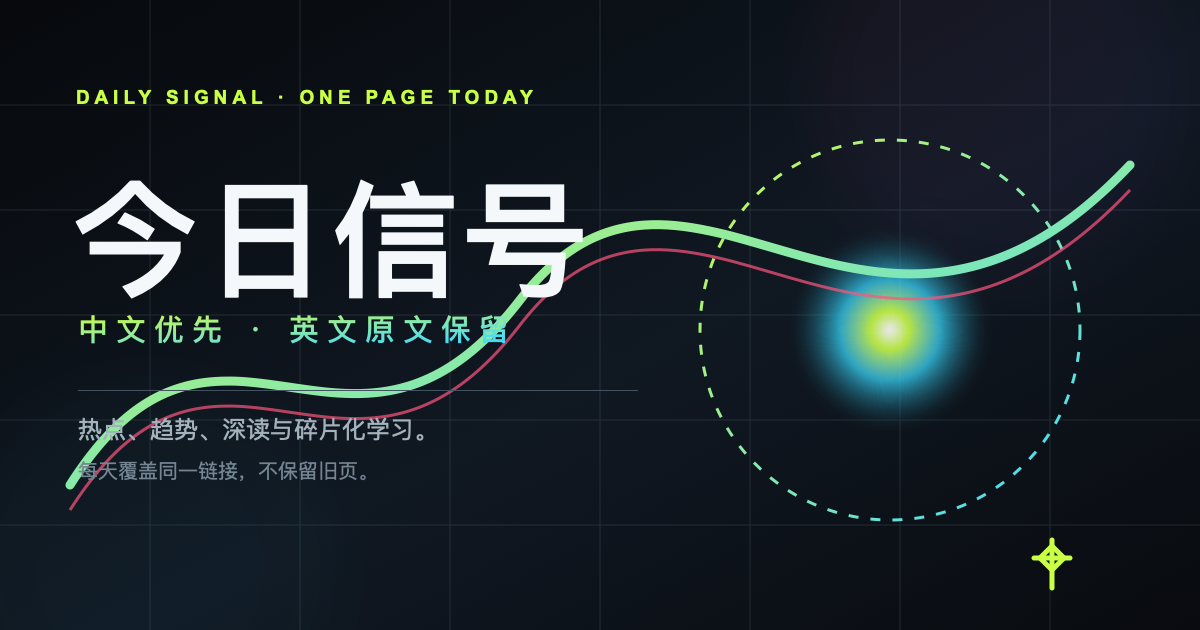
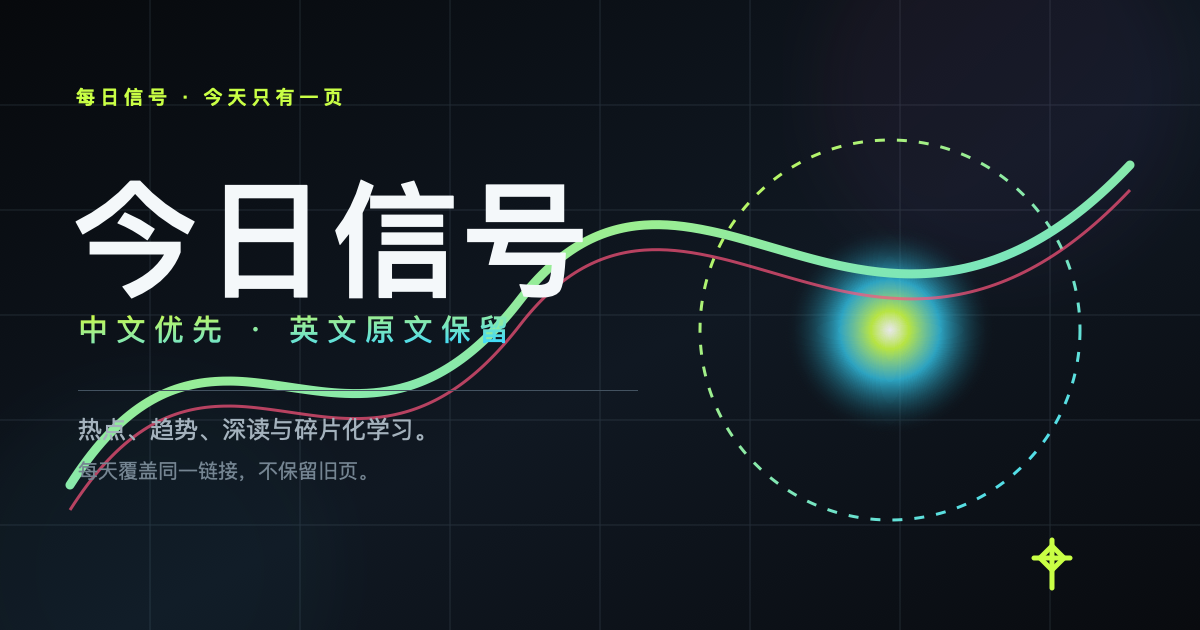
Update today page

Changed region(s): [[0.0617, 0.1206, 0.4317, 0.181]]

diff --git a/index.html b/index.html
@@ -3,13 +3,13 @@
 <head>
 <meta charset="utf-8">
 <meta name="viewport" content="width=device-width, initial-scale=1">
-<title>每日互联网简报 | Daily Signal</title>
+<title>每日互联网简报｜每日信号</title>
 <meta name="description" content="每天一页：AI、创业、全球、经济、职业技能、人文成长，以及抖音、微博、B站、小红书和 X 的热点与传播趋势。">
 <meta name="theme-color" content="#080a0d">
 <link rel="canonical" href="https://wenrouwenrouliu-cloud.github.io/one-page-daily/">
 <link rel="icon" href="favicon.svg" type="image/svg+xml">
 <meta property="og:type" content="website">
-<meta property="og:title" content="每日互联网简报 | Daily Signal">
+<meta property="og:title" content="每日互联网简报｜每日信号">
 <meta property="og:description" content="今天只读这一页：每天更新的互联网热点、深度阅读和碎片化学习。">
 <meta property="og:url" content="https://wenrouwenrouliu-cloud.github.io/one-page-daily/">
 <meta property="og:image" content="https://wenrouwenrouliu-cloud.github.io/one-page-daily/og-cover.png">
@@ -30,12 +30,12 @@ h1{margin:18px 0 20px;font-size:clamp(68px,13vw,164px);line-height:.78;letter-sp
 main{padding:46px 0 90px}.section{margin:0 0 75px}.head{display:flex;justify-content:space-between;gap:30px;align-items:end;border-bottom:1px solid var(--line);padding-bottom:15px;margin-bottom:26px}.head h2{margin:0;font-size:clamp(38px,6vw,70px);line-height:1;letter-spacing:-.055em}.head .code{color:var(--cyan);font:800 10px/1.5 ui-monospace,monospace;letter-spacing:.14em;text-align:right}
 .timeline{position:relative;padding-left:42px}.timeline:before{content:"";position:absolute;left:9px;top:0;bottom:0;width:1px;background:linear-gradient(var(--cyan),var(--acid),var(--pink))}.entry{position:relative;display:grid;grid-template-columns:110px 1fr 190px;gap:24px;padding:24px 0;border-bottom:1px solid var(--line)}.entry:before{content:"";position:absolute;left:-38px;top:34px;width:11px;height:11px;border-radius:50%;background:var(--acid);box-shadow:0 0 18px var(--acid)}.idx{font:900 38px/1 ui-monospace,monospace;color:#31404c}.tag{color:var(--cyan);font:800 10px/1.4 ui-monospace,monospace;letter-spacing:.13em;text-transform:uppercase}.entry h3{font-size:clamp(27px,3.4vw,45px);line-height:1.1;margin:8px 0 10px;letter-spacing:-.045em}.entry p{color:#91a0ab;font-size:14px}.entry .meta{text-align:right;color:var(--muted);font:700 10px/1.8 ui-monospace,monospace;text-transform:uppercase}.entry .meta b{display:block;color:var(--acid);margin-top:8px}
 .deep{display:grid;grid-template-columns:1fr 1fr;gap:16px}.deep article{position:relative;min-height:390px;padding:28px;border:1px solid var(--line);background:linear-gradient(145deg,rgba(21,27,34,.9),rgba(10,13,17,.95));overflow:hidden}.deep article:before{content:"";position:absolute;right:-90px;top:-100px;width:250px;height:250px;border-radius:50%;background:var(--cyan);opacity:.12;filter:blur(4px)}.deep article:nth-child(2):before{background:var(--pink)}.deep h3{font-size:clamp(28px,3.6vw,43px);line-height:1.1;margin:28px 0 14px;letter-spacing:-.045em}.deep p{color:#94a1aa;font-size:14px}.deep .bottom{margin-top:42px;padding-top:15px;border-top:1px solid var(--line);color:var(--acid);font:800 12px/1.5 ui-monospace,monospace}
-.partner{margin:0 0 75px;border:1px solid rgba(201,255,69,.35);background:linear-gradient(135deg,rgba(201,255,69,.12),rgba(56,217,255,.06) 48%,rgba(255,84,124,.09));padding:42px;display:grid;grid-template-columns:1fr 300px;gap:34px;position:relative;overflow:hidden}.partner:after{content:"SIGNAL";position:absolute;right:-10px;bottom:-56px;font:900 140px/1 ui-monospace,monospace;color:rgba(255,255,255,.035)}.partner h3{font-size:clamp(34px,5vw,58px);line-height:1;letter-spacing:-.055em;margin:14px 0}.partner p{color:#9eabb5;font-size:14px;max-width:760px}.partner .terms{border-left:1px solid var(--line);padding-left:22px;color:var(--acid);font:800 10px/1.9 ui-monospace,monospace;text-transform:uppercase}
+.partner{margin:0 0 75px;border:1px solid rgba(201,255,69,.35);background:linear-gradient(135deg,rgba(201,255,69,.12),rgba(56,217,255,.06) 48%,rgba(255,84,124,.09));padding:42px;display:grid;grid-template-columns:1fr 300px;gap:34px;position:relative;overflow:hidden}.partner:after{content:"合作";position:absolute;right:-10px;bottom:-56px;font:900 140px/1 ui-monospace,monospace;color:rgba(255,255,255,.035)}.partner h3{font-size:clamp(34px,5vw,58px);line-height:1;letter-spacing:-.055em;margin:14px 0}.partner p{color:#9eabb5;font-size:14px;max-width:760px}.partner .terms{border-left:1px solid var(--line);padding-left:22px;color:var(--acid);font:800 10px/1.9 ui-monospace,monospace;text-transform:uppercase}
 .matrix{border:1px solid var(--line)}.prow{display:grid;grid-template-columns:120px 1fr 1fr;border-bottom:1px solid var(--line)}.prow:last-child{border-bottom:0}.pcell{padding:20px;border-right:1px solid var(--line)}.pcell:last-child{border-right:0}.pcell h3{margin:0;font-size:27px}.pcell small{display:block;color:var(--muted);font:700 9px/1.6 ui-monospace,monospace;margin-top:7px}.pcell h4{margin:0 0 10px;color:var(--pink);font:800 9px/1.5 ui-monospace,monospace;letter-spacing:.14em;text-transform:uppercase}.sigrow{display:grid;grid-template-columns:22px 1fr auto;gap:8px;padding:8px 0;border-top:1px solid rgba(210,230,240,.09);font-size:13px}.sigrow:first-of-type{border-top:0}.sigrow b{color:var(--cyan);font:800 10px/1.6 ui-monospace,monospace}.sigrow em{font-style:normal;color:var(--acid);font:800 9px/1.5 ui-monospace,monospace;white-space:nowrap}
 .latest{display:grid;grid-template-columns:repeat(2,1fr);column-gap:30px}.news{display:grid;grid-template-columns:112px 1fr;gap:14px;padding:14px 0;border-top:1px solid var(--line);font-size:14px}.news b{color:var(--cyan);font:800 9px/1.6 ui-monospace,monospace;text-transform:uppercase}.news small{display:block;color:var(--muted);font:700 9px/1.5 ui-monospace,monospace;margin-top:4px}
 footer{border-top:1px solid var(--line);padding:24px 0 55px;display:flex;justify-content:space-between;color:var(--muted);font:700 10px/1.6 ui-monospace,monospace;text-transform:uppercase}
 @media(max-width:850px){.herogrid,.entry,.deep,.partner,.prow,.latest{grid-template-columns:1fr}.head{align-items:flex-start;flex-direction:column}.head .code{text-align:left}.entry .meta{text-align:left}.pcell{border-right:0;border-bottom:1px solid var(--line)}.partner .terms{border-left:0;border-top:1px solid var(--line);padding:18px 0 0}.news{grid-template-columns:90px 1fr}footer{flex-direction:column}}
-
+</style>
 <style id="signal-young-layer">
   .ico{width:18px;height:18px;display:inline-block;vertical-align:middle;fill:none;stroke:currentColor;stroke-width:1.8;stroke-linecap:round;stroke-linejoin:round}
   .wordmark{display:flex;align-items:center;gap:10px}.wordmark-mark{width:26px;height:26px;display:grid;place-items:center;border:1px solid var(--line);border-radius:9px;background:linear-gradient(135deg,rgba(201,255,69,.16),rgba(56,217,255,.12));box-shadow:0 0 24px rgba(56,217,255,.12)}
@@ -49,10 +49,10 @@ footer{border-top:1px solid var(--line);padding:24px 0 55px;display:flex;justify
 
 </head>
 <body>
-<header class="top"><div class="wrap topin"><div class="wordmark"><span class="wordmark-mark" data-icon="signal"></span><span><span class="live">实时</span> 每日信号 <small>DAILY SIGNAL</small> <span id="issue"></span></span></div><div id="topDate">—</div></div></header>
-<section class="hero"><div class="wrap"><div class="herogrid"><div><div class="kicker">每日信号 / 10:30 更新 / 11:00 推送</div><h1>今日<br><span class="glow">信号</span></h1><p>把今天值得注意的内容压缩成一条清晰信号：热点、趋势、深读与真正可以执行的碎片任务。</p><div class="topic-icons" id="topicIcons"></div></div><aside class="hero-visual"><img src="signal-art.svg" alt="抽象信号视觉"><div class="visual-overlay"><div><div class="kicker">当前版本 / CURRENT ISSUE</div><div class="date" id="heroDate">—</div></div><div class="meta" id="heroMeta">—</div></div></aside></div><div class="ticker"><div class="track"><span>AI SIGNAL</span><span>STARTUP PULSE</span><span>WORLD DESK</span><span>ECONOMY WATCH</span><span>CAREER LAB</span><span>HUMANITIES</span><span>AI SIGNAL</span><span>STARTUP PULSE</span><span>WORLD DESK</span><span>ECONOMY WATCH</span><span>CAREER LAB</span><span>HUMANITIES</span></div></div></div></section>
+<header class="top"><div class="wrap topin"><div class="wordmark"><span class="wordmark-mark" data-icon="signal"></span><span><span class="live">实时</span> 每日信号 <span id="issue"></span></span></div><div id="topDate">—</div></div></header>
+<section class="hero"><div class="wrap"><div class="herogrid"><div><div class="kicker">每日信号 / 10:30 更新 / 11:00 推送</div><h1>今日<br><span class="glow">信号</span></h1><p>把今天值得注意的内容压缩成一条清晰信号：热点、趋势、深读与真正可以执行的碎片任务。</p><div class="topic-icons" id="topicIcons"></div></div><aside class="hero-visual"><img src="signal-art.svg" alt="抽象信号视觉"><div class="visual-overlay"><div><div class="kicker">当前版本</div><div class="date" id="heroDate">—</div></div><div class="meta" id="heroMeta">—</div></div></aside></div><div class="ticker"><div class="track"><span>人工智能</span><span>创业脉搏</span><span>全球观察</span><span>经济雷达</span><span>职业实验室</span><span>人文成长</span><span>人工智能</span><span>创业脉搏</span><span>全球观察</span><span>经济雷达</span><span>职业实验室</span><span>人文成长</span></div></div></div></section>
 <main class="wrap" id="app"></main>
-<footer class="wrap"><span>SIGNAL C / 深夜信号站</span><span>同一地址 · 每日覆盖 · 不保留旧页</span></footer>
+<footer class="wrap"><span>每日信号 · 深夜模式</span><span>同一地址 · 每日覆盖 · 不保留旧页</span></footer>
 
 <script src="daily-data.js"></script>
 <script>
@@ -88,8 +88,8 @@ document.getElementById('topDate').textContent=data.date+' / '+data.updatedAt;
 document.getElementById('issue').textContent='#'+data.date.replaceAll('-','');
 document.getElementById('heroDate').textContent=data.date.replaceAll('-','.');
 document.getElementById('heroMeta').textContent='最后更新 '+data.updatedAt+'<br>'+data.stats.reads+' SIGNALS / '+data.stats.sources+' SOURCES';
-const item=(x,i)=>`<article class="entry"><div class="idx">${String(i+1).padStart(2,'0')}</div><div><div class="tagline"><span class="icon-badge">${ico(['ai','rocket','globe','trend'][i])}</span><span class="tag">${esc(x.category)} / ${esc(x.time)} 分钟轻读</span></div><h3><a href="${safeUrl(x.url)}" target="_blank" rel="noopener">${esc(x.titleZh||x.title)}</a></h3>${x.titleZh&&x.titleZh!==x.title?`<div class="original-title">EN · ${esc(x.title)}</div>`:''}<p>${esc(x.summaryZh||x.summary)}</p>${x.summaryZh&&x.summaryZh!==x.summary?`<details class="original-text"><summary>英文原文 / Original</summary><p>${esc(x.summary)}</p></details>`:''}</div><div class="meta">${esc(x.source)}<b>${esc(x.action)}</b></div></article>`;
-const deepItem=(x,i)=>`<article><div class="tagline"><span class="icon-badge">${ico(i===0?'career':'book')}</span><span class="tag">${esc(x.direction||x.category)} / 深度阅读</span></div><h3><a href="${safeUrl(x.url)}" target="_blank" rel="noopener">${esc(x.titleZh||x.title)}</a></h3>${x.titleZh&&x.titleZh!==x.title?`<div class="original-title">EN · ${esc(x.title)}</div>`:''}<p>${esc(x.summaryZh||x.summary)}</p>${x.summaryZh&&x.summaryZh!==x.summary?`<details class="original-text"><summary>英文原文 / Original</summary><p>${esc(x.summary)}</p></details>`:''}<div class="bottom">${esc(x.source)} · ${esc(x.action)}</div></article>`;
+const item=(x,i)=>`<article class="entry"><div class="idx">${String(i+1).padStart(2,'0')}</div><div><div class="tagline"><span class="icon-badge">${ico(['ai','rocket','globe','trend'][i])}</span><span class="tag">${esc(x.category)} / ${esc(x.time)} 分钟轻读</span></div><h3><a href="${safeUrl(x.url)}" target="_blank" rel="noopener">${esc(x.titleZh||x.title)}</a></h3>${x.titleZh&&x.titleZh!==x.title?`<div class="original-title">原文 · ${esc(x.title)}</div>`:''}<p>${esc(x.summaryZh||x.summary)}</p>${x.summaryZh&&x.summaryZh!==x.summary?`<details class="original-text"><summary>英文原文</summary><p>${esc(x.summary)}</p></details>`:''}</div><div class="meta">${esc(x.source)}<b>${esc(x.action)}</b></div></article>`;
+const deepItem=(x,i)=>`<article><div class="tagline"><span class="icon-badge">${ico(i===0?'career':'book')}</span><span class="tag">${esc(x.direction||x.category)} / 深度阅读</span></div><h3><a href="${safeUrl(x.url)}" target="_blank" rel="noopener">${esc(x.titleZh||x.title)}</a></h3>${x.titleZh&&x.titleZh!==x.title?`<div class="original-title">原文 · ${esc(x.title)}</div>`:''}<p>${esc(x.summaryZh||x.summary)}</p>${x.summaryZh&&x.summaryZh!==x.summary?`<details class="original-text"><summary>英文原文</summary><p>${esc(x.summary)}</p></details>`:''}<div class="bottom">${esc(x.source)} · ${esc(x.action)}</div></article>`;
 const platformIcon={ '抖音':'play','微博':'hash','B站':'screen','小红书':'note','X':'x' };
 const platform=p=>`<section class="prow"><div class="pcell"><h3><span class="platform-ico">${ico(platformIcon[p.platform]||'signal')}</span>${esc(p.platform)}</h3><small>${esc(p.source)}</small></div><div class="pcell"><h4>${ico('hot')} 最火</h4>${(p.hot||[]).slice(0,4).map(x=>`<div class="sigrow"><b>${x.rank}</b><div><a href="${safeUrl(x.url)}" target="_blank" rel="noopener">${esc(x.titleZh||x.title)}</a>${x.titleZh&&x.titleZh!==x.title?`<div class="original-title">${esc(x.title)}</div>`:''}</div><em>最火</em></div>`).join('')}</div><div class="pcell"><h4>${ico('rising')} 传播最快</h4>${(p.fast||[]).slice(0,4).map(x=>`<div class="sigrow"><b>${x.rank}</b><div><a href="${safeUrl(x.url)}" target="_blank" rel="noopener">${esc(x.titleZh||x.title)}</a>${x.titleZh&&x.titleZh!==x.title?`<div class="original-title">${esc(x.title)}</div>`:''}</div><em>${esc(x.speedLabel||'上升')}</em></div>`).join('')}</div></section>`;
 app.innerHTML=`
@@ -97,7 +97,7 @@ app.innerHTML=`
 <section class="section"><div class="head"><div><div class="kicker">02 / 深度阅读</div><h2>${ico('book')}两段深读</h2></div><div class="code">随机方向<br>中等理解</div></div><div class="deep">${deep.map(deepItem).join('')}</div></section>
 <aside class="partner"><div><div class="kicker">${ico('spark')} 品牌信号 / 原生合作位</div><h3>让品牌内容自然接入今天的信息流。</h3><p>适合品牌观点、研究数据、产品笔记与工具更新。保持编辑判断，不加入追踪脚本、弹窗和自动播放。</p></div><div class="terms">每期一席<br>原生编辑位<br>无侵入追踪<br>可分享链接</div></aside>
 <section class="section"><div class="head"><div><div class="kicker">03 / 热点矩阵</div><h2>${ico('globe')}全网热点</h2></div><div class="code">五个平台<br>最火 + 最快</div></div><div class="matrix">${platforms.map(platform).join('')}</div></section>
-<section class="section"><div class="head"><div><div class="kicker">04 / 今日最新</div><h2>${ico('arrow')}新信号</h2></div><div class="code">选读内容<br>稍后浏览</div></div><div class="latest">${(data.latest||[]).map(x=>`<div class="news"><b>${esc(x.source)}</b><div><a href="${safeUrl(x.url)}" target="_blank" rel="noopener">${esc(x.titleZh||x.title)}</a>${x.titleZh&&x.titleZh!==x.title?`<div class="original-title">EN · ${esc(x.title)}</div>`:''}<small>${esc(x.publishedText)}</small></div></div>`).join('')}</div></section>`;
+<section class="section"><div class="head"><div><div class="kicker">04 / 今日最新</div><h2>${ico('arrow')}新信号</h2></div><div class="code">选读内容<br>稍后浏览</div></div><div class="latest">${(data.latest||[]).map(x=>`<div class="news"><b>${esc(x.source)}</b><div><a href="${safeUrl(x.url)}" target="_blank" rel="noopener">${esc(x.titleZh||x.title)}</a>${x.titleZh&&x.titleZh!==x.title?`<div class="original-title">原文 · ${esc(x.title)}</div>`:''}<small>${esc(x.publishedText)}</small></div></div>`).join('')}</div></section>`;
 </script>
 
 <div class="spark-layer" aria-hidden="true"><span class="spark">✦</span><span class="spark">+</span><span class="spark">↗</span><span class="spark">◇</span></div>
